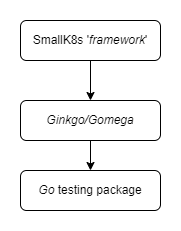
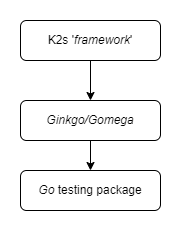
#18 fix(tests): moved execute_all_tests.ps1 back to root test dir; working dir for Go-based tests adapted (#276)

Changed region(s): [[0.1657, 0.1515, 0.8287, 0.2121]]

diff --git a/doc/contributing/CONTRIBUTING.md b/doc/contributing/CONTRIBUTING.md
@@ -114,13 +114,13 @@ PS> bgo -BuildAll 1
 When you have made changes either to PowerShell scripts or Go projects, you can run all test suites in the repository via:
 
 ```PowerShell
-PS> c:\k\k2s\test\execute_all_tests.ps1
+PS> c:\k\test\execute_all_tests.ps1
 ```
 <span style="color:orange;font-size:medium">**⚠** </span> Acceptance/e2e/system tests might require a running *K2s* cluster. See also [*K2s* Acceptance Testing](../../k2s/test/README.md).
 
 To filter tests for e.g. executing only unit tests, use the **-Tags** and **-ExcludeTags** parameters:
 ```PowerShell
-PS> c:\k\k2s\test\execute_all_tests.ps1 -Tags unit
+PS> c:\k\test\execute_all_tests.ps1 -Tags unit
 ```
 
 > Inspect the script for further parameter details and descriptions.
@@ -210,4 +210,4 @@ The following guidelines apply to submitting changes to *K2s*:
     
     **Note:** To avoid entering the passphrase for the GPG key too often, you can increase the expiration time, e.g. on *Windows* using [Gpg4win](https://gpg4win.org/download.html) (see [How do I install and use gpg-agent on Windows?](https://stackoverflow.com/a/66821816)). Alternatively, these settings can also be modified in this file: `C:\Users\<user>\AppData\Roaming\gnupg\gpg-agent.conf`
   - see [Managing commit signature verification](https://docs.github.com/en/authentication/managing-commit-signature-verification) for more information
-- run as many automated tests as possible, but at least the unit tests :`<repo>\k2s\test\execute_all_tests.ps1 -Tags unit`. Depending on the area of changes, consider running the appropriate e2e tests as well
+- run as many automated tests as possible, but at least the unit tests :`<repo>\test\execute_all_tests.ps1 -Tags unit`. Depending on the area of changes, consider running the appropriate e2e tests as well